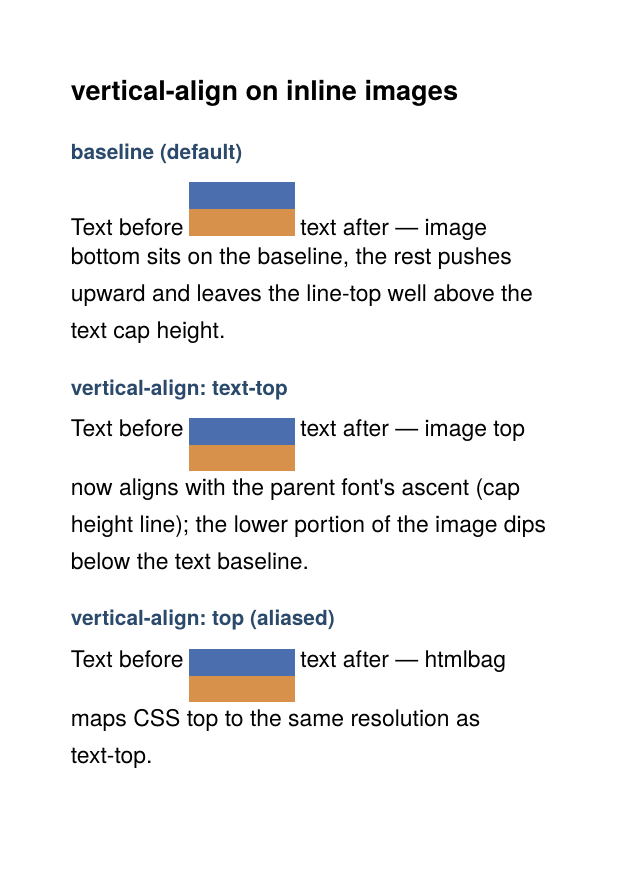
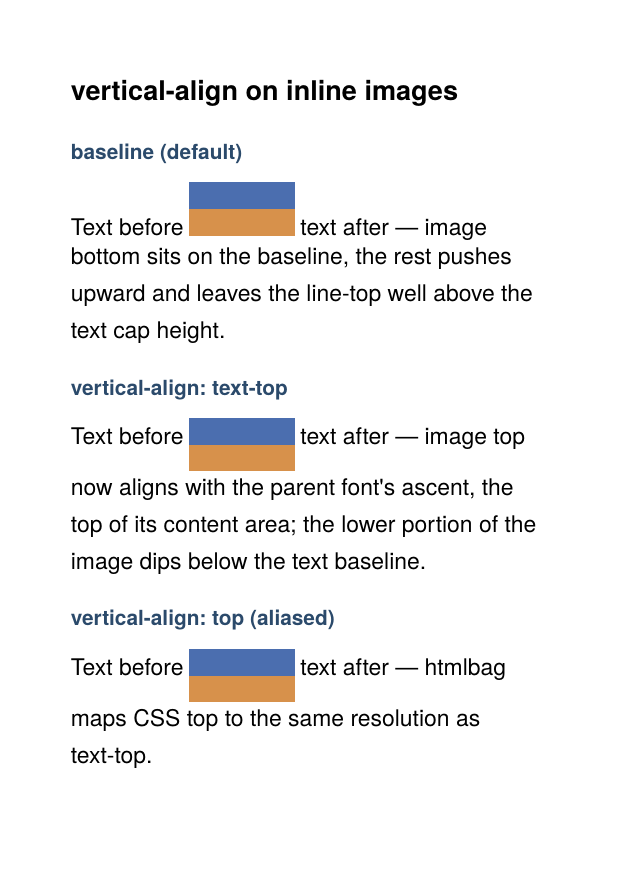
Renew inline-image-align with the font's ascent

diff --git a/glu/html/inline-image-align/inline-image-align.html b/glu/html/inline-image-align/inline-image-align.html
@@ -7,8 +7,9 @@
 
     1. baseline    (default) — image bottom on baseline; image overhangs
                                 upward, well above the text x-height.
-    2. text-top    — image top sits at the parent font's ascent line;
-                                lower part of the image dips below the
+    2. text-top    — image top sits at the parent font's ascent, the
+                                top of its content area; the lower
+                                part of the image dips below the
                                 baseline.
     3. top         — htmlbag aliases this to text-top (no first-class
                                 line-box model). Visually identical to
@@ -44,8 +45,8 @@
 
   <h2>vertical-align: text-top</h2>
   <p>Text before <img src="stripe.png" class="tall top"> text after —
-    image top now aligns with the parent font's ascent (cap height
-    line); the lower portion of the image dips below the text baseline.</p>
+    image top now aligns with the parent font's ascent, the top of its
+    content area; the lower portion of the image dips below the text baseline.</p>
 
   <h2>vertical-align: top (aliased)</h2>
   <p>Text before <img src="stripe.png" class="tall" style="vertical-align: top"> text after —

diff --git a/glu/html/inline-image-align/Readme.md b/glu/html/inline-image-align/Readme.md
@@ -7,8 +7,12 @@ The same `<img>` appears in three paragraphs that differ only in their
 | `vertical-align`         | Effect on the image                                |
 | ------------------------ | -------------------------------------------------- |
 | `baseline` (default)     | Image bottom on the text baseline; the image extends upward. |
-| `text-top`               | Image top at the ascent of the parent font; the image dips below the baseline. |
+| `text-top`               | Image top at the ascent of the parent font, the top of its content area; the image dips below the baseline. |
 | `top`                    | Treated like `text-top`. htmlbag has no real line-box model, so the line-box semantics of `top` fall back to `text-top` for inline images. |
+
+`middle`, `text-bottom`, `bottom`, `sub`, `super`, a length and a
+percentage work the same way, also on an SVG in `<img>` and on an
+inline `<svg>`.
 
 ## How it works
 
@@ -16,40 +20,21 @@ An image, like a glyph or a box, has a height above the baseline and
 a depth below it. By default the depth is 0, so the image sits on the
 baseline (CSS `baseline`).
 
-For `vertical-align: text-top`, htmlbag splits the visible height of
-the image:
+`vertical-align` splits the visible height of the image into these
+two parts. For `text-top` the height above the baseline is the ascent
+of the parent font, as boxes and glue reads it from the font (the top
+of the content area that a browser paints an inline background over):
 
 ```
-ascent ≈ font-size × 0.8             // typical typoAscender ratio
 height = ascent                      // extent above the baseline
 depth  = visual height - ascent      // extent below the baseline
 ```
 
 The image is then drawn with its bottom at the depth below the
-baseline. With a depth of 0 this is the same as the baseline
-placement.
-
-The ascent ratio of 0.8 is a deliberate approximation. Real fonts
-have a typoAscender of roughly 0.75 to 0.82 of the em. Reading the
-actual value from the font at this point would cost more than it
-gains: for typical inline images the visual difference is below a
-pixel.
-
-## Scope
-
-The split applies to raster images with an absolute width or no
-width (`<img src="....png">`). Two cases are left unchanged:
-
-- **SVG images** (`<img src="....svg">`) are placed as a box that is
-  anchored differently. When the SVG is the tallest item on the line,
-  the result is close to `vertical-align: top`; when taller content
-  shares the line, it differs from `text-top`.
-- **Raster images with a percentage width** (`<img src="....png"
-  width="50%">`) are sized later, when the container width is known,
-  and are placed the same way as SVG images.
-
-Giving these two cases full `text-top` support would change how other
-boxes inside a line are placed, so it is left for a separate change.
+baseline. `text-bottom` puts the bottom at the descent, `middle` the
+middle of the image at half the x-height, and a length moves the
+image up or down by that much. The line grows with the image, so the
+next line starts below it.
 
 ## Run
 
